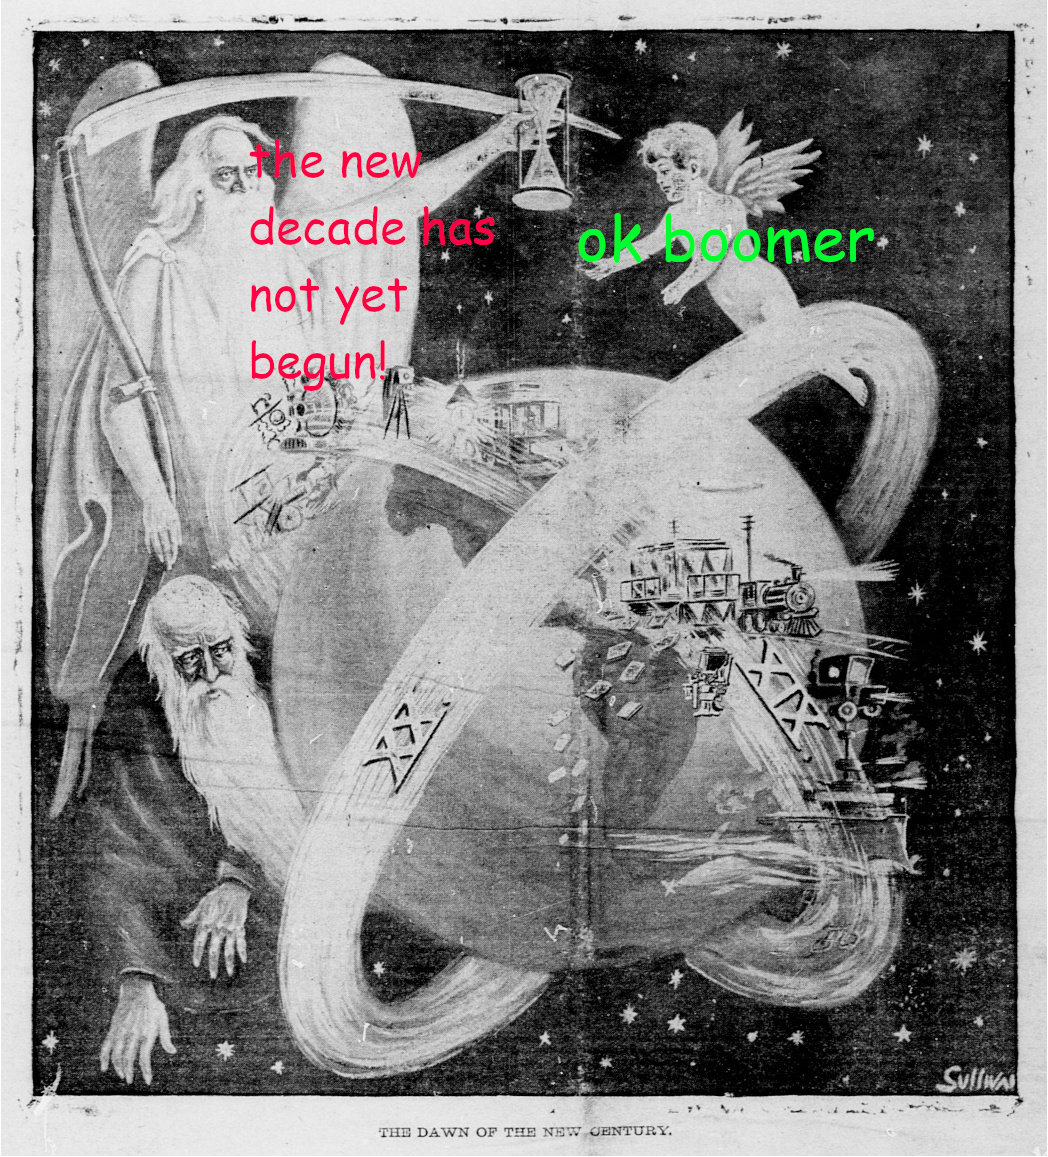
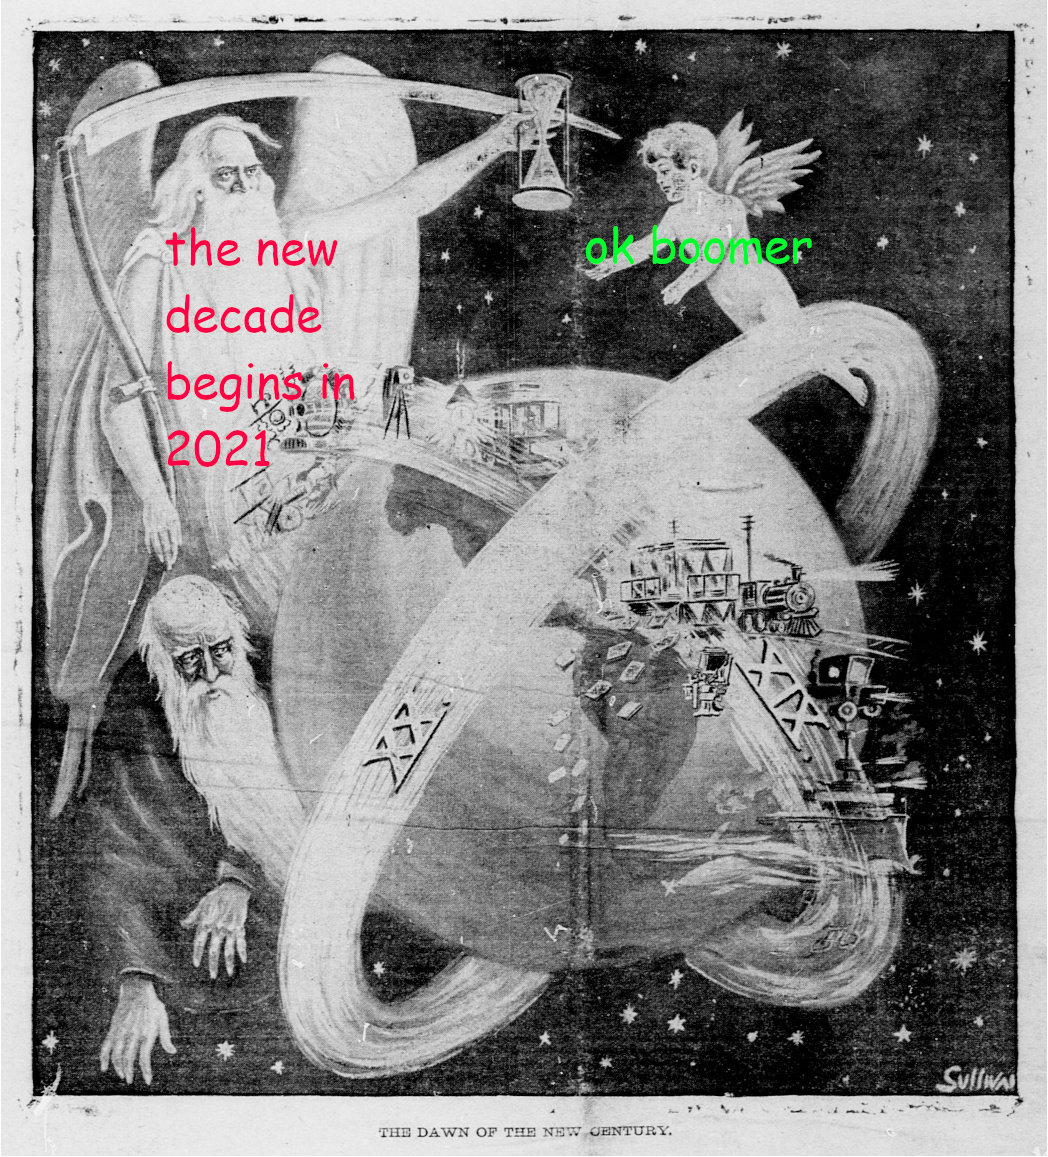
restructure based on alanna feedback

Changed region(s): [[0.1527, 0.1867, 0.4885, 0.4045], [0.5496, 0.1867, 0.8244, 0.2489], [0.2443, 0.1245, 0.3969, 0.1556]]

diff --git a/_drafts/decades.md b/_drafts/decades.md
@@ -1,6 +1,6 @@
 ---
 layout: post-with-image
-title: "2020 and the Decade Dilemma"
+title: "How to Periodize History: 2020 and the Decade Dilemma"
 excerpt: "Does 2020 begin a new decade? To answer this question we must consult the pope, the Kaiser, the census, a hockey player, and ISO 8601."
 image:
   filename:  "decade/new-century-cartoon-boomer.jpg"
@@ -16,30 +16,10 @@ The question has percolated through the loud void of social media, reverberating
 
 {% include image.html filename="decade/when-new-decade-begins.png" description="Altered headline of the December 10, 1899 Boston Herald." %}
 
-In an earlier time, the Pope himself might have served as just such an authority. After all, our calendar isn't called "[Gregorian](https://en.wikipedia.org/wiki/Pope_Gregory_XIII)" for nothing. What we're missing is a _formal standardization_ for the concept of the decade. To borrow the visual acuity pun, [20/20](https://www.aoa.org/patients-and-public/eye-and-vision-problems/glossary-of-eye-and-vision-conditions/visual-acuity) enjoys [formal standardization](http://www.icoph.org/dynamic/attachments/resources/icovisualacuity1984.pdf) by the International Council of Ophthalmology while 2020 enjoys no such thing, at least not one with the clout to bring an authoritative answer.
-
-Instead, in true postmodern fashion, people must hash out their own understanding of the decade question without any authoritative answer, or perhaps, with all too many authoritative answers. Recent articles on the subject have consulted [meteorological associations](https://www.forbes.com/sites/marshallshepherd/2020/01/01/is-2020-the-start-of-a-new-decadea-human-technical-and-climate-perspective/#18ed2fd3ee2f), [philosophy professors](https://www.usatoday.com/story/news/nation/2019/12/10/2020-start-new-decade-some-say-thats-not-until-2021/4366467002/), and [the United States Naval Observatory](https://www.nytimes.com/2019/11/28/us/what-is-decade.html).
+In an earlier time, the Pope himself might have served as just such an authority. After all, our calendar isn't called "[Gregorian](https://en.wikipedia.org/wiki/Gregorian_calendar)" for nothing; [Pope Gregory XIII]((https://en.wikipedia.org/wiki/Pope_Gregory_XIII)) commissioned it in the 16th century. But today, in true postmodern fashion, people must hash out their own understanding of the decade question without any authoritative answer, or perhaps, with all too many authoritative answers. Recent articles on the subject have consulted [meteorological associations](https://www.forbes.com/sites/marshallshepherd/2020/01/01/is-2020-the-start-of-a-new-decadea-human-technical-and-climate-perspective/#18ed2fd3ee2f), [philosophy professors](https://www.usatoday.com/story/news/nation/2019/12/10/2020-start-new-decade-some-say-thats-not-until-2021/4366467002/), and [the United States Naval Observatory](https://www.nytimes.com/2019/11/28/us/what-is-decade.html).
 
 
-
-
-Some might recall similar questions about the true beginning of the new millennium: the first of January, but 2000 or 2001? Paleontologist and public intellectual Stephen Jay Gould wrote his 1997 book _[Questioning the Millennium](https://www.hup.harvard.edu/catalog.php?isbn=9780674061644)_ on precisely this question, filling its pages with historical and pop culture debates. (Spoiler alert: it was 2001.)
-
-Less grandiose but more rife with historical evidence is the century question: do centuries begin in years ending with `00` or with `01`? The end of the 19th century, _[la fin de siècle](https://en.wikipedia.org/wiki/Fin_de_si%C3%A8cle)_ as it was known in France and in high culture, garnered tremendous attention worldwide. Philosophers, intellectuals, journalists, emperors, and popes all debated and ruled on the exact beginning of the 20th century, their efforts published for mass audiences in the world's newspapers. In response, where today we have social media, back then they had letters to the editor.
-
-{% capture german_song %}
-Have you wondered whether we've started a new decade as much as this person? "[Wann fängt das XIX. Jahrhundert an?](https://books.google.com/books?id=tRVDAAAAcAAJ&pg=PA857&lpg=PA857&dq=%22Wann+fangt+das+XIX.+Jahrhundert+an?%22&source=bl&ots=rn7HjVD-2F&sig=ACfU3U3D1TvWV04VyzhSD1mx9GH6xczr_Q&hl=en&sa=X&ved=2ahUKEwi44ZLTi-nmAhXjV98KHWmHC2QQ6AEwA3oECAQQAQ#v=onepage&q=%22Wann%20fangt%20das%20XIX.%20Jahrhundert%20an%3F%22&f=false)" ("When Does the 19th Century Begin?") _Allgemeine musikalische Zeitung_, 18 September 1799.
-{% endcapture %}
-{% include image.html
-	img_style="width: 50%;"
-	filename="decade/german-music.png"
-	description=german_song
-	figcaption_style="width: 600px;" %}
-
-And then finally there's the decade question. A millennium is grandiose. A century is once in a lifetime. But a decade? That's pedestrian. Indeed, among these three periodizations of history, the decade stands alone as being primarily cultural in nature. 
-"Decades are not a function of calendar time," states Newsweek journalist Bill Barol. "They are trends, values, and associations, bundled up and tied together in the national memory."[^newsweek]
-
-# The Two Camps
+# The Two Camps of Counting
 
 When asked whether 2020 marks a new decade, people fall into two camps, which I'll call the _Cardinals_ and the _Ordinals_.
 
@@ -47,7 +27,18 @@ When asked whether 2020 marks a new decade, people fall into two camps, which I'
 
 * The Ordinals, on the other hand, answer _no, for decades are identified by ordinal numbers counted in sequence from the beginning_. The current decade, the 202nd (or the 2nd of the 21st century), includes the years 2011 through 2020, while the next decade, the 203rd, will include the years 2021 through 2030.
 
-These two camps are both so rational and natural that a person in one camp might deny the very existence of the other. Not since 2015 --- is that still this decade? --- and "[the dress](https://en.wikipedia.org/wiki/The_dress)" have two camps formed so resolutely online. Are they not both completely legitimate ways to count off the decades? Let's evaluate these camps as applied to another periodization: centuries.
+These two camps are both so rational and natural that a person in one camp might deny the very existence of the other. Not since 2015 --- is that still this decade? --- and "[the dress](https://en.wikipedia.org/wiki/The_dress)" have two camps formed so resolutely online. Are they not both completely legitimate ways to count off the decades?
+
+* Give ISO definition
+* Give census definition
+* Give historical newspaper evidence
+* Arrrrgh so what's the answer??? Connect to historical debate about centuries.
+
+
+# Centuries of History of Centuries
+
+
+Some might recall similar questions about the true beginning of the new millennium or new century --- the first of January, but 2000 or 2001? More generally, do centuries begin in years ending with `00` or with `01`? It depends on which camp you're in.
 
 To count centuries, the Cardinals would say that we're in _the 2000s_, running from 2000 to 2099, and last we were in _the 1900s_, running from 1900 to 1999. Surely one cannot deny the legitimacy of referring to centuries as such. The Ordinals, on the other hand, would say that we're in the _the 21st century_, running from 2001 to 2100, and last we were in _the 20th century_, running from 1901 to 2000.
 
@@ -58,10 +49,8 @@ To count centuries, the Cardinals would say that we're in _the 2000s_, running f
 	description2=""
 	caption="A reader's table showing how to count a decade in the 31 December 1899 _Washington Post_, and an enumeration by the Provost of University of Pennsylvania in the 10 December 1899 _Boston Herald_ ([footnote 6](#fn:colleges))." %}
 
-At the level of centuries, this debate has raged for... centuries, most notably the transition from 19th to 20th centuries. Stephen Jay Gould deemed the debate to be one between "high culture" on one side --- the scholarly mantle of Ordinals --- and "vernacular culture" on the other --- the common-sense laurels of Cardinals, most notably expressed in the 1890s.[^gouldculture]
-A century later, he remarks, it would be Arthur C. Clarke's _2001_ vs. Prince's _1999_.
 
-On the side of high culture, insisting that centuries begin in the `01` years, stood Pope Leo XIII,[^popeaddress] astronomers going back centuries,[^loc] and many newspaper editors. They even recognized the distinction as one between cardinal and ordinal numbers, going back at least to 1699.[^delaisement]
+At the level of centuries, this debate has raged for... centuries, most notably the transition from 19th to 20th centuries. _[La fin de siècle](https://en.wikipedia.org/wiki/Fin_de_si%C3%A8cle)_, as it was known in France and in high culture, garnered tremendous attention worldwide. Philosophers, intellectuals, journalists, emperors, and popes all debated and ruled on the exact beginning of the 20th century, their efforts published for mass audiences in the world's newspapers. In response, where today we have social media, back then they had letters to the editor.
 
 {% capture three_articles_caption %}
 Three example articles across the centuries. De Laisement's "Dissertation sur le commencement du siècle prochain" ([1699](#fn:delaisement)), _The London Times_ (26 December 1799), and _The Nashville American_ (4 January 1899).
@@ -72,13 +61,29 @@ Three example articles across the centuries. De Laisement's "Dissertation sur le
 	filename3="decade/tennesseean-1900-century-not-ended.png"
 	caption=three_articles_caption %}
 
+Stephen Jay Gould deemed the debate to be one between "high culture" on one side --- the scholarly mantle of Ordinals --- and "vernacular culture" on the other --- the common-sense laurels of Cardinals, most notably expressed in the 1890s.[^gouldculture]
+A century later, he remarks, it would be Arthur C. Clarke's _2001_ vs. Prince's _1999_.
+
+On the side of high culture, insisting that centuries begin in the `01` years, stood [Pope Leo XIII](https://en.wikipedia.org/wiki/Pope_Leo_XIII),[^popeaddress] astronomers going back centuries,[^loc] and many newspaper editors. They even recognized the distinction as one between cardinal and ordinal numbers, going back at least to 1699.[^delaisement]
+
+{% capture german_song %}
+Have you wondered whether we've started a new decade as much as this person? "[Wann fängt das XIX. Jahrhundert an?](https://books.google.com/books?id=tRVDAAAAcAAJ&pg=PA857&lpg=PA857&dq=%22Wann+fangt+das+XIX.+Jahrhundert+an?%22&source=bl&ots=rn7HjVD-2F&sig=ACfU3U3D1TvWV04VyzhSD1mx9GH6xczr_Q&hl=en&sa=X&ved=2ahUKEwi44ZLTi-nmAhXjV98KHWmHC2QQ6AEwA3oECAQQAQ#v=onepage&q=%22Wann%20fangt%20das%20XIX.%20Jahrhundert%20an%3F%22&f=false)" ("When Does the 19th Century Begin?") _Allgemeine musikalische Zeitung_, 18 September 1799.
+{% endcapture %}
+{% include image.html
+	img_style="width: 50%;"
+	filename="decade/german-music.png"
+	description=german_song
+	figcaption_style="width: 600px;" %}
+
 On the side of vernacular culture, arguing for the `00` years, stood Kaiser Wilhelm II of Germany,[^kaiser] the Wellesley College president,[^colleges] and --- most importantly --- the common man. One such common man articulated his position on the "great secular event" of the turn of the century as a populist backlash to "the abacists":
 
 > Shall we wait now a whole year for 1901, at the behest of the abacists? No, we will not pass over the significant year 1900, which is stamped with the great secular change, but with cheers we will welcome it and the new century. The 1900 men, who compose the vast majority of the people, say to their opponents: "We freely admit that the century you have in your mind, the artificial century, begins in 1901, but the natural century (which we prefer) begins in 1900."[^abacists]
 
-In the end, with the intelligentsia on their side the Ordinals won the debate on centuries, as long as the ordinally-specified phrase "the \_\_th century" remains the common expression for centurial periods of history. Then do they also win the debate on decades?
+In the end, with the intelligentsia on their side the Ordinals won the debate on centuries, as long as the ordinally-specified phrase "the `__`th century" remains the common expression for centurial periods of history. Then do they also win the debate on decades?
 
 # What's a Decade Anyway?
+
+A millennium is grandiose. A century is once in a lifetime. But a decade? That's pedestrian. Indeed, among these three periodizations of history, the decade stands alone as being primarily cultural in nature. "Decades are not a function of calendar time," wrote Newsweek journalist Bill Barol. "They are trends, values, and associations, bundled up and tied together in the national memory."[^newsweek]
 
 Without the grandeur of a century, the decade question has prompted far less (serious) debate. The decade, as a periodization of history, is a fairly recent concept. In the 1940s historian Marc Bloch had already warned against the "insidious" practice of periodizing by centuries:
 > We no longer name ages after their heroes. We very prudently number them in sequence every hundred years, starting from a point fixed, once and for all, at the year 1 of the Christian era. [...] Unfortunately, no law of history enjoins that only those years whose dates end with the figures '01' coincide with the critical points of human evolution.[^bloch]
@@ -107,30 +112,16 @@ Smith:
 * NYT article: "What's in a decade, anyway? And how is it that this arbitrary and slim crosscutting of time, a mere 10 years, has grown and flourished to the point that we all walk around in a self-conscious haze about what a new decade represents even before the previous one has tolled its last?"
 {:/comment}
 
-This difference in the idea of the decade, as compared to centuries, also matches the common language to talk about them. Here, the Cardinals have the advantage: you're far less likely to hear talk of "the 203rd decade" than "the 2020s." The situation is reversed for centuries: "the 21st century" is more common than "the 2000s." While it's not immediately clear how to search for "the \_\_s" vs. "the \_\_ century" or "decade," we can at least compare the frequency of the ordinal reference to "centuries" vs. to "decades," which [the following Google Ngram Viewer results](https://books.google.com/ngrams/graph?content=_NUM_+st+century+%2B+_NUM_+nd+century+%2B+_NUM_+rd+century+%2B+_NUM_+th+century%2C_NUM_+st+decade+%2B+_NUM_+nd+decade+%2B+_NUM_+rd+decade+%2B+_NUM_+th+decade&case_insensitive=on&year_start=1700&year_end=2020&corpus=15&smoothing=3&share=&direct_url=t1%3B%2C%28_NUM_%20st%20century%20%2B%20%20_NUM_%20nd%20century%20%2B%20%20_NUM_%20rd%20century%20%2B%20%20_NUM_%20th%20century%29%3B%2Cc0%3B.t1%3B%2C%28_NUM_%20st%20decade%20%2B%20%20_NUM_%20nd%20decade%20%2B%20%20_NUM_%20rd%20decade%20%2B%20%20_NUM_%20th%20decade%29%3B%2Cc0) show.
+This difference in the idea of the decade, as compared to centuries, also matches the common language to talk about them. Here, the Cardinals have the advantage: you're far less likely to hear talk of "the 203rd decade" than "the 2020s." The situation is reversed for centuries: "the 21st century" is more common than "the 2000s." While it's not immediately clear how to search for "the `__`s" vs. either "the `__` century" or "the `__` decade," we can at least compare the frequency of the ordinal reference to "centuries" vs. to "decades," which [the following Google Ngram Viewer results](https://books.google.com/ngrams/graph?content=_NUM_+st+century+%2B+_NUM_+nd+century+%2B+_NUM_+rd+century+%2B+_NUM_+th+century%2C_NUM_+st+decade+%2B+_NUM_+nd+decade+%2B+_NUM_+rd+decade+%2B+_NUM_+th+decade&case_insensitive=on&year_start=1700&year_end=2020&corpus=15&smoothing=3&share=&direct_url=t1%3B%2C%28_NUM_%20st%20century%20%2B%20%20_NUM_%20nd%20century%20%2B%20%20_NUM_%20rd%20century%20%2B%20%20_NUM_%20th%20century%29%3B%2Cc0%3B.t1%3B%2C%28_NUM_%20st%20decade%20%2B%20%20_NUM_%20nd%20decade%20%2B%20%20_NUM_%20rd%20decade%20%2B%20%20_NUM_%20th%20decade%29%3B%2Cc0) show.
 
 {% include image.html
 	filename="decade/ngram-results-ordinals.png"
 	description="Google Ngram results showing frequency of ordinal reference to centuries vs. to decades."
 	 %}
 
-Taking the cardinal invocation of decades to be far more common than the ordinal invocation, it seems to me that the Cardinals win the decade debate; the decades begin on the `00` years. This is the opposite of century counting, though the distinction in the concept of the decade seems to warrant the distinction in the counting.
-
-But without some kind of standard or formal definition to back it up, why trust this outcome? Who can more authoritatively answer?
-
-# Respecting Authority
+Taking the cardinal invocation of decades to be far more common than the ordinal invocation, it seems to me that the Cardinals win the decade debate; the decades begin on the `00` years. And although this is the opposite of century counting, the distinction in the concept of the decade seems to further warrant the distinction in counting.
 
 
-
-
-
-{::comment}
-* Discuss the historical debate about counting centuries.
-* Discuss why decades are different.
-* Provide the ISO 8601 vs. decennial census standardizations.
-* Provide the Tribune discussion on decades and centuries.
-* Conclusively weigh in.
-{:/comment}
 
 
 [^gouldculture]:
